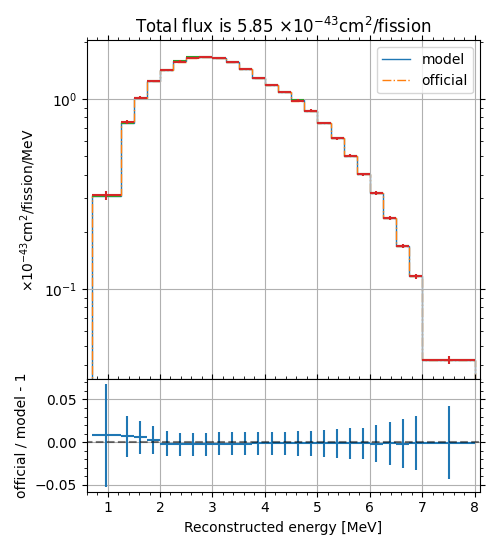
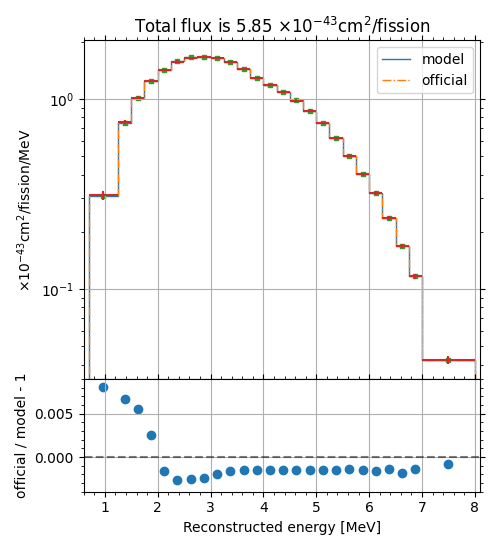
remove unc for ratio

diff --git a/prl_134_201802/spectrum.py b/prl_134_201802/spectrum.py
@@ -124,12 +124,13 @@ def main(args: Namespace) -> None:
     axs[0].stairs(data_like_yield, DEFAULT_EDGES, label="model")
     axs[0].stairs(prl_data["y"], DEFAULT_EDGES, label="official", linestyle="-.")
 
-    axs[0].errorbar(y=data_like_yield, x=centers, linestyle="none", xerr=widths / 2, yerr=data_like_yield_error, color="C2")
+    axs[0].scatter(y=data_like_yield, x=centers, s=5, marker="s", color="C2")
     axs[0].errorbar(y=prl_data["y"], x=centers, linestyle="none", xerr=widths / 2, yerr=prl_data["ey"], color="C3")
 
-    axs[1].errorbar(y=ratio - 1.0, x=centers, xerr=widths / 2, yerr=ratio_err, linestyle="none")
+    axs[1].scatter(y=ratio - 1.0, x=centers)
     axs[1].hlines(0, 12, -1, color="black", alpha=0.5, linestyle="--")
     axs[1].set_xlim(0.6, 8.1)
+    axs[1].set_ylim(-4e-3, 9e-3)
     axs[1].set_xlabel("Reconstructed energy [MeV]")
     axs[1].set_ylabel("official / model - 1")
     axs[0].set_ylabel(r"$\times 10^{-43}\text{cm}^2/\text{fission}/\text{MeV}$")